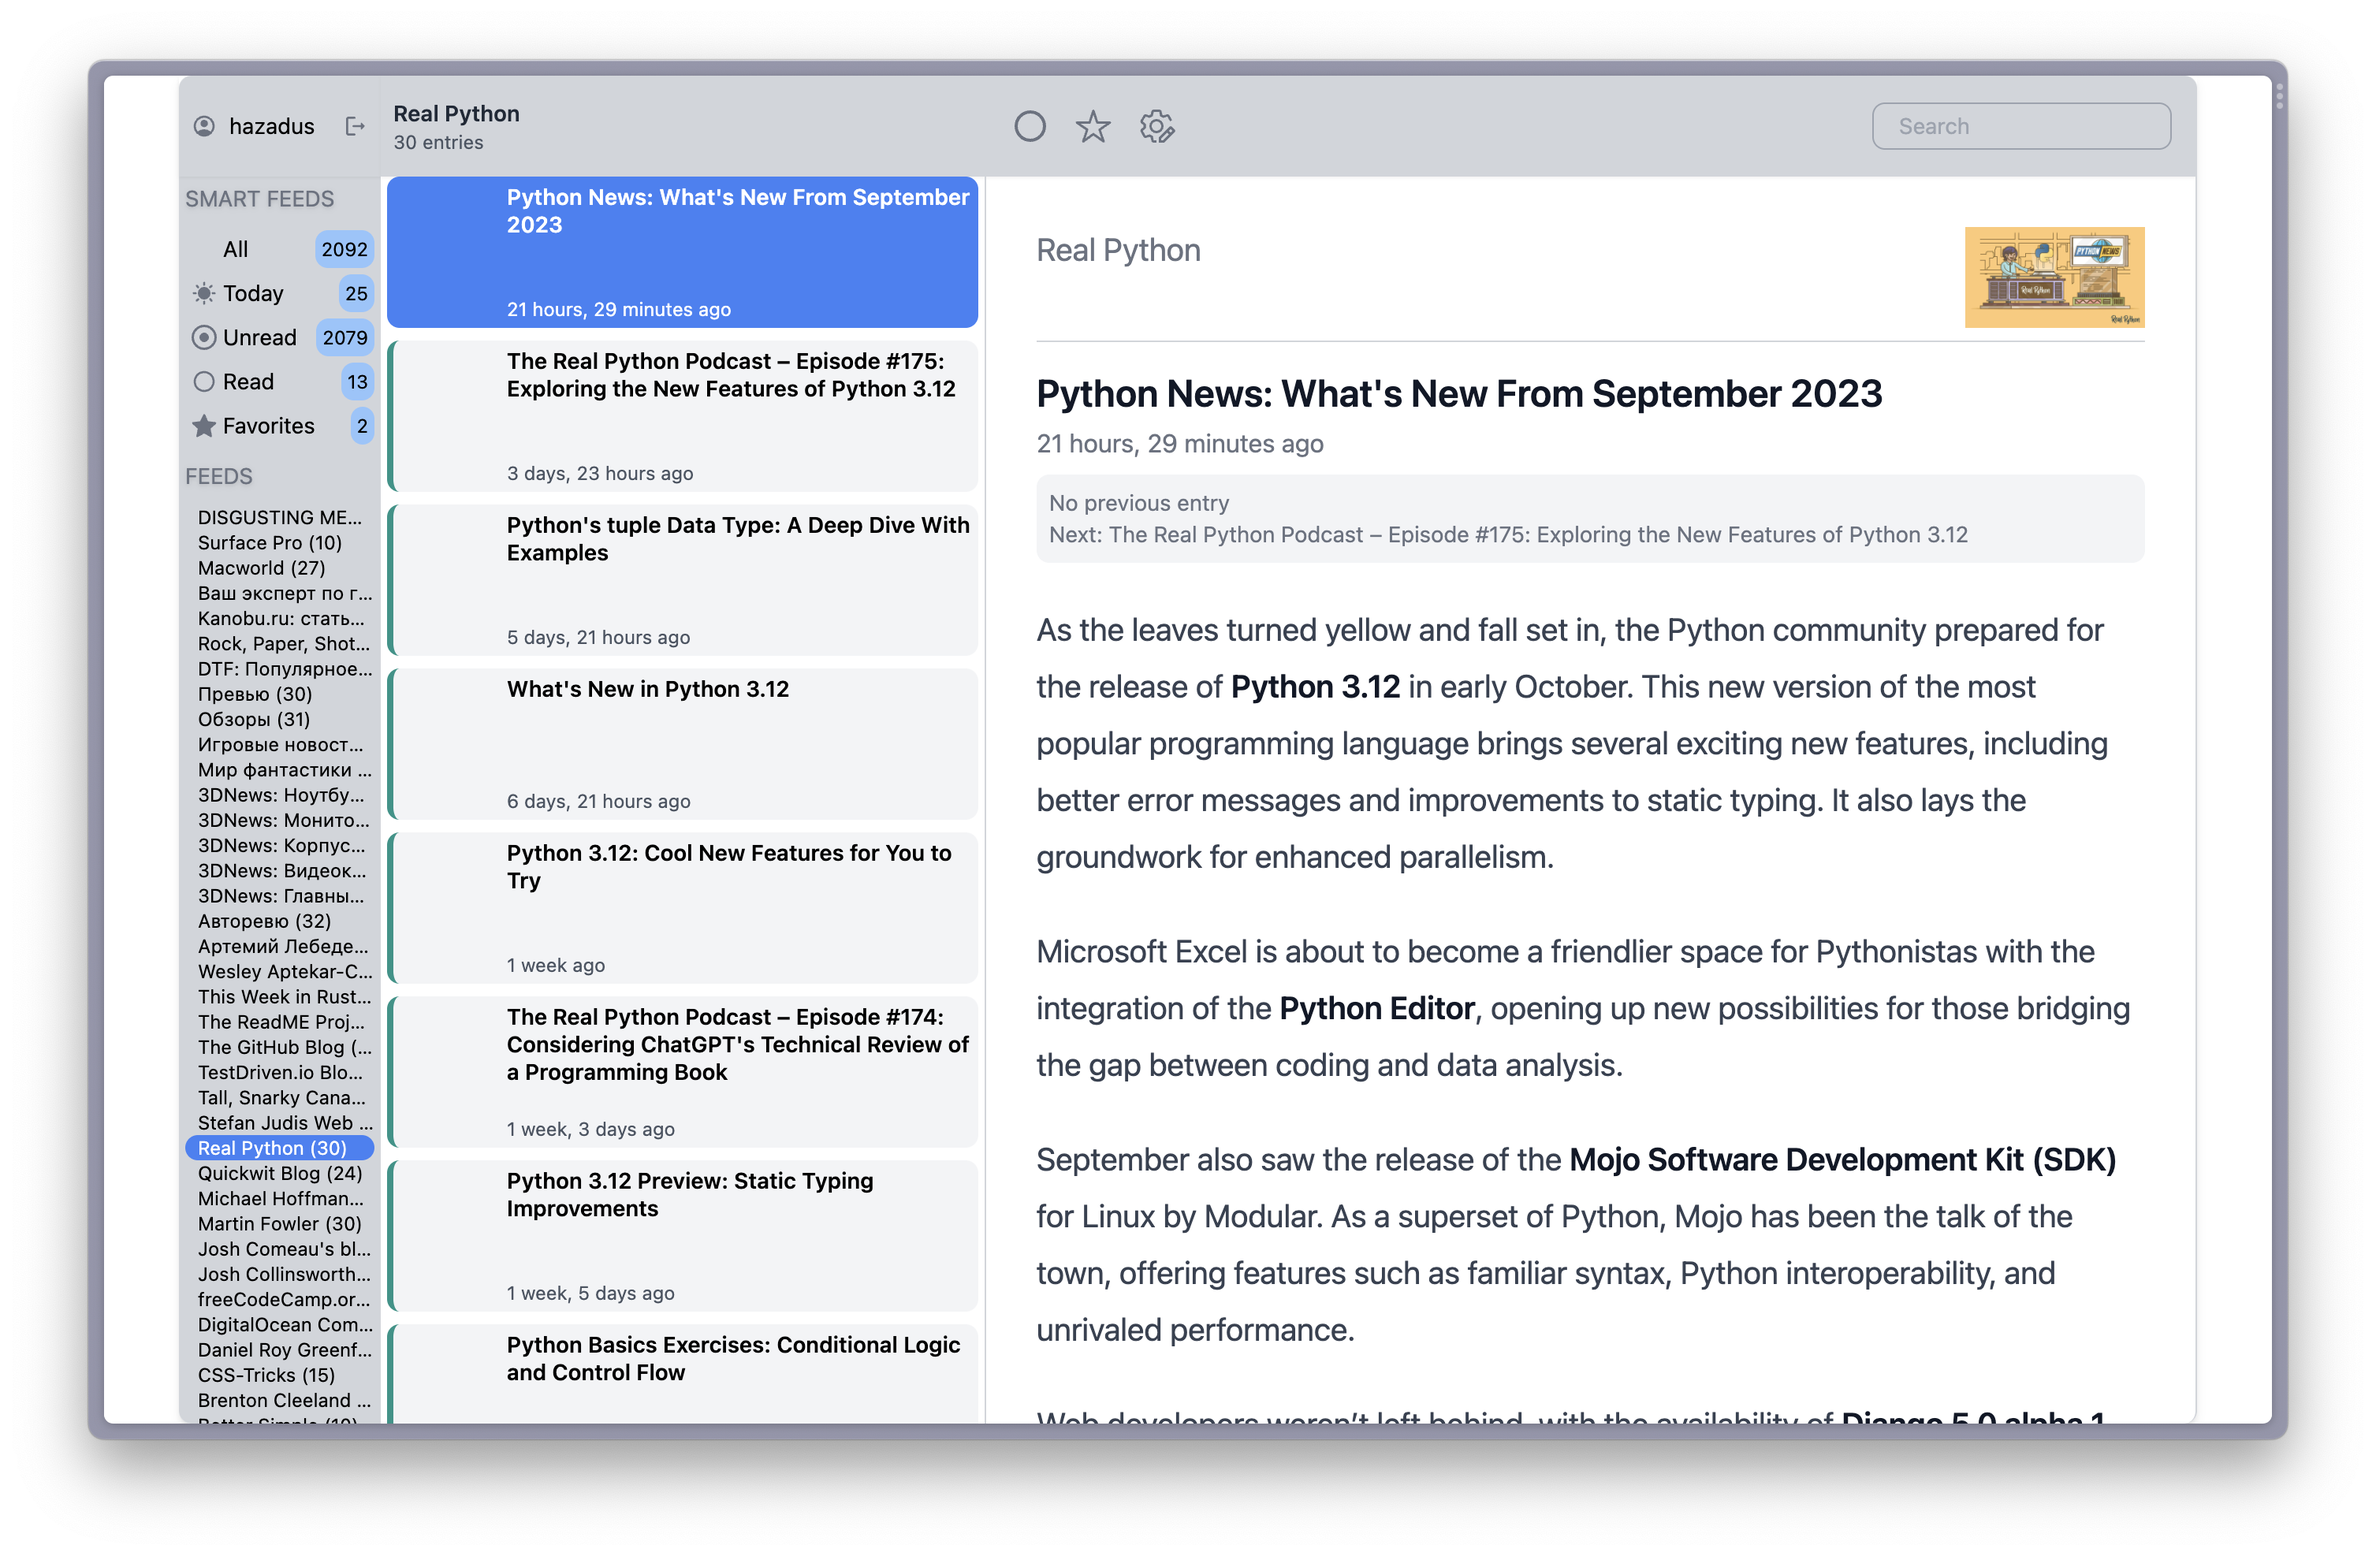
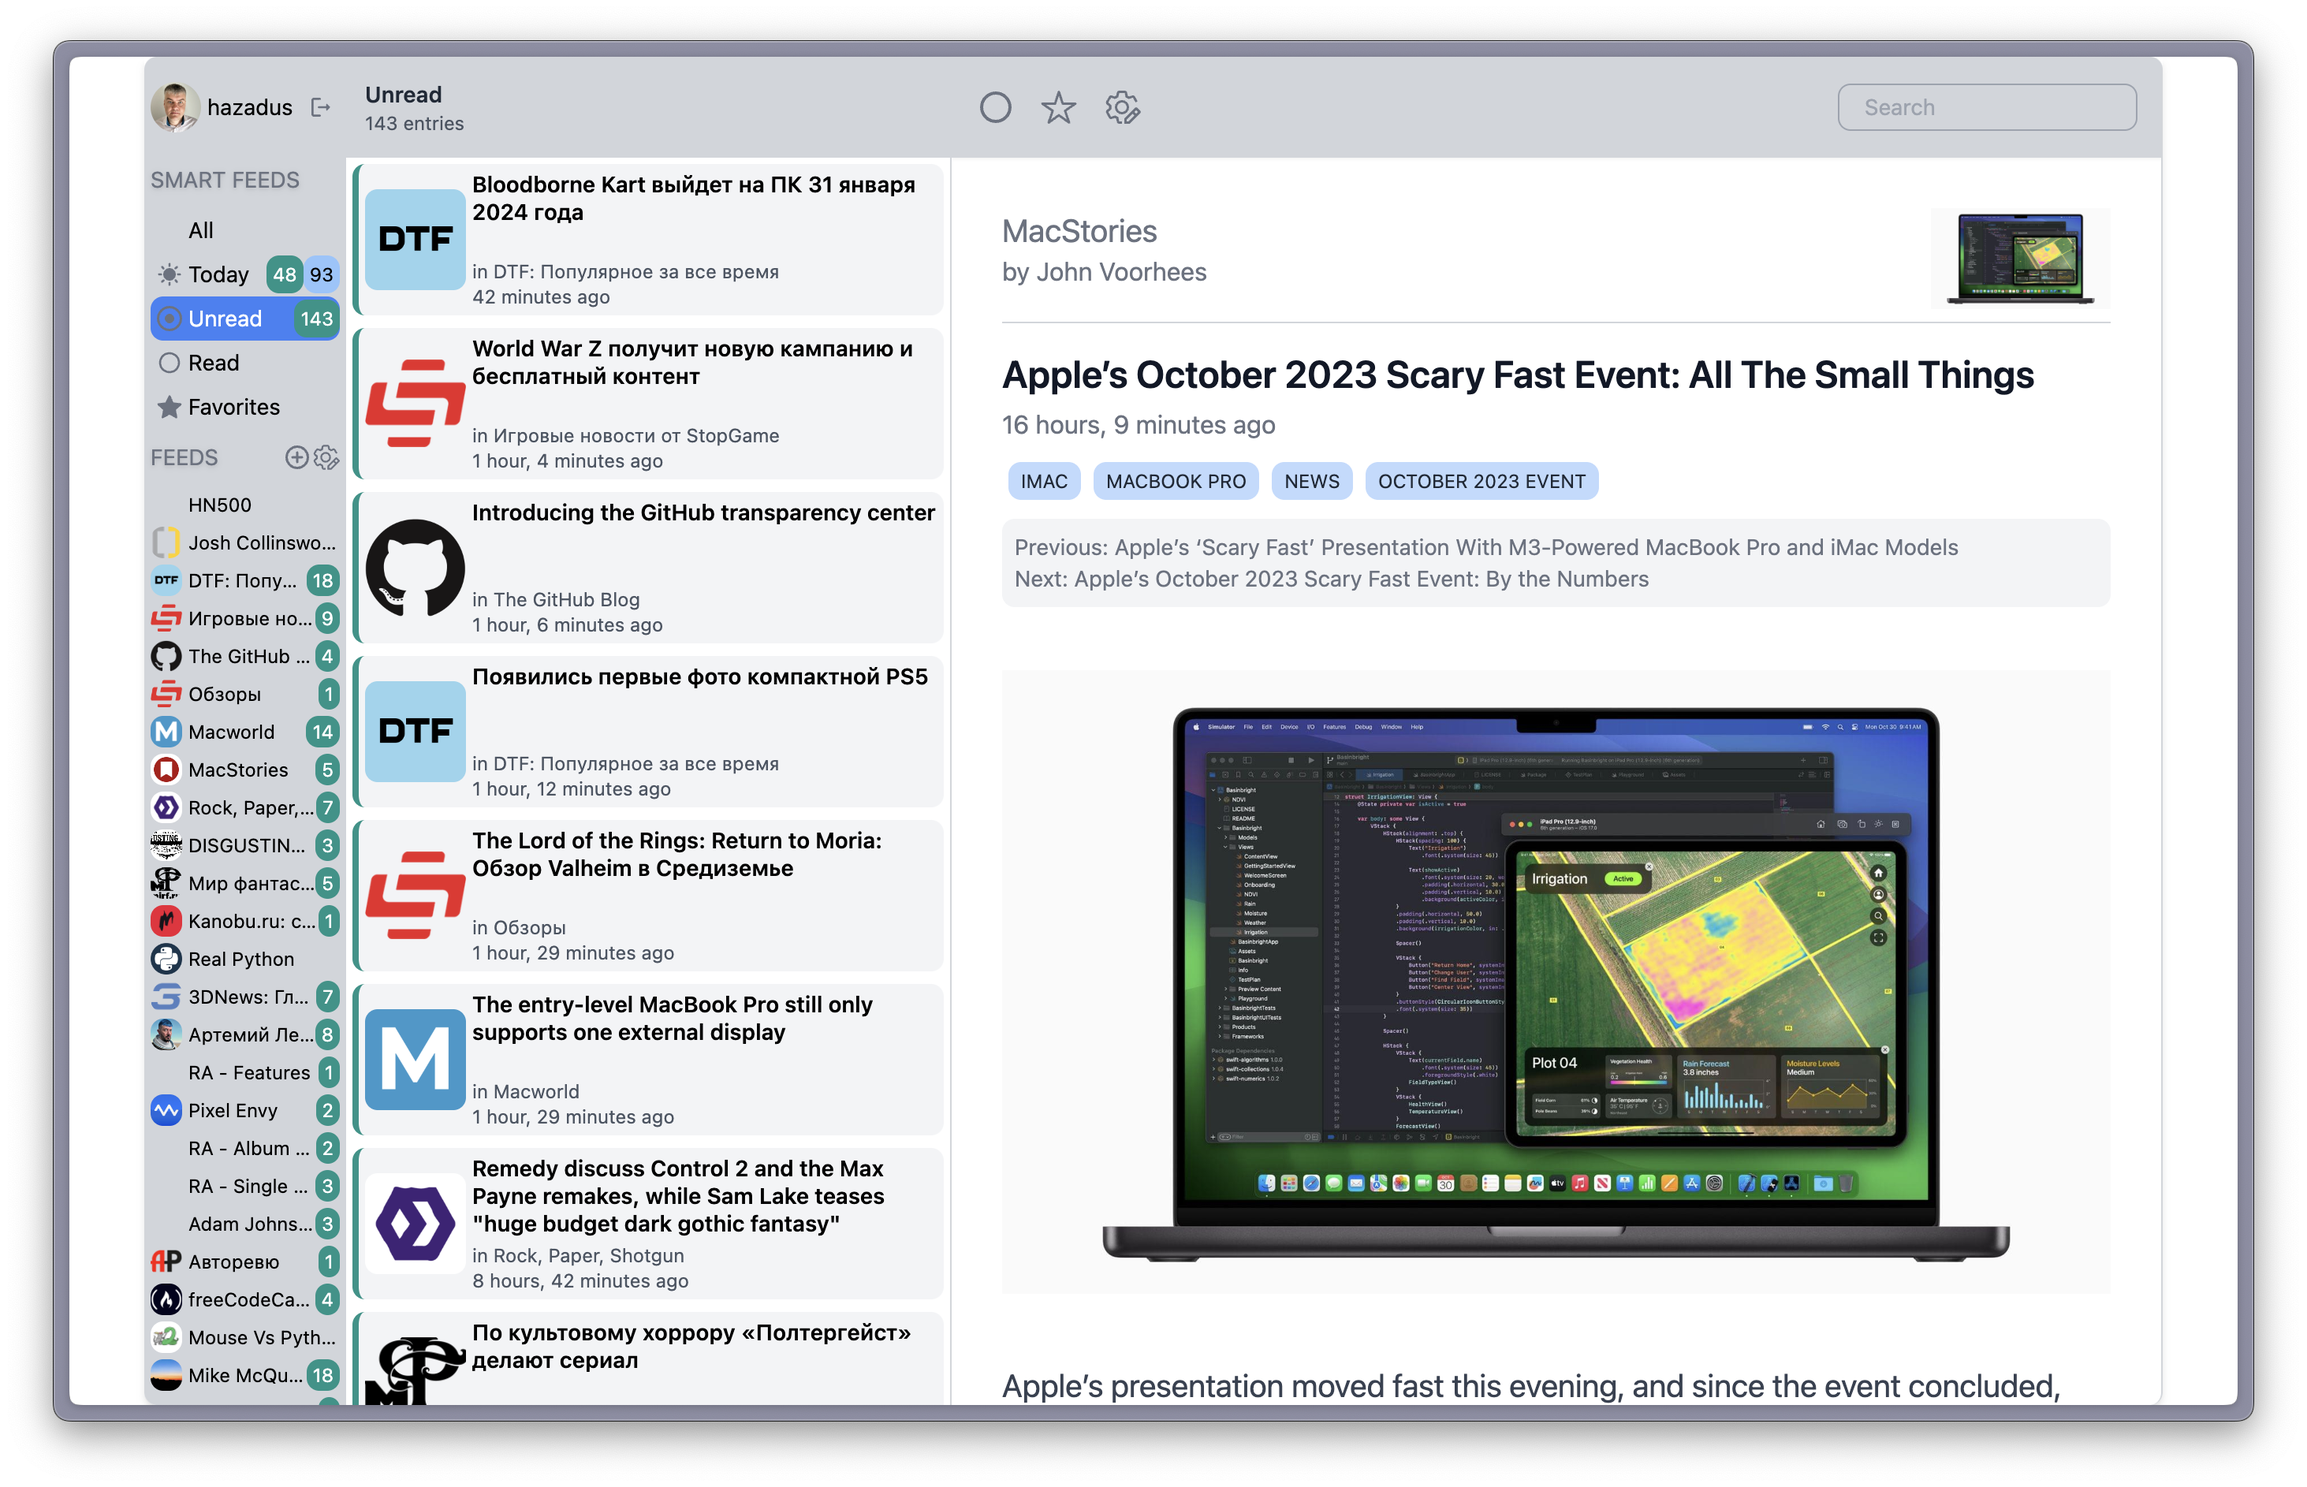
content: Update about page and RSS Reader screenshot.

diff --git a/pages/about.vue b/pages/about.vue
@@ -28,26 +28,24 @@ const breadcrumbs: Breadcrumb[] = [
           профессионально.
         </p>
 
+        <p class="mt-4">На этома сайте можно ознакомиться с моими проектами и другими наработками.</p>
+
         <p class="mt-4">
-          Подробный рассказ о себе, своих навыках и целях добавлю в ближайшее время! А пока, на сайте можно
-          ознакомиться с моими проектами и другими наработками.
+          Технологии, в которых я совершенствуюсь сейчас:
+          <Icon name="logos:python" /> Python, <Icon name="logos:postgresql" /> PostgreSQL,
+          <Icon name="logos:django-icon" /> Django, Celery, Redis, Nginx, Docker, Git, CI/CD.
         </p>
 
         <p class="mt-4">
-          Основные технологии, в которых я совершенствуюсь сейчас:
-          <Icon name="logos:python" /> Python, <Icon name="logos:django-icon" /> Django,
-          <Icon name="logos:postgresql" /> PostgreSQL, <Icon name="logos:typescript-icon" /> TypeScript,
-          <Icon name="logos:nuxt-icon" /> Nuxt, <Icon name="logos:vue" /> Vue, Git, Docker, CI/CD.
-        </p>
-
-        <p class="mt-4">
-          Работал с: Next.js, React, MongoDB, Mongoose, Prisma, Apollo Client/Server, Redis, Nginx, Node, ...
+          Кроме того, в своих проектах работаю с: <Icon name="logos:typescript-icon" /> TypeScript,
+          <Icon name="logos:nuxt-icon" /> Nuxt, <Icon name="logos:vue" /> Vue, Tailwind, Chakra UI, Next.js,
+          React, MongoDB, Mongoose, Prisma, Apollo Client/Server, Node, и др.
         </p>
 
         <p class="mt-4">Неторопливо изучаю в своё удовольствие: <Icon name="logos:rust" /> Rust.</p>
 
         <p class="mt-4">
-          Книги:
+          Люблю хорошую литературу о разработке:
           <a
             href="http://library.hazadus.ru/lists/3/details/"
             class="underline"
